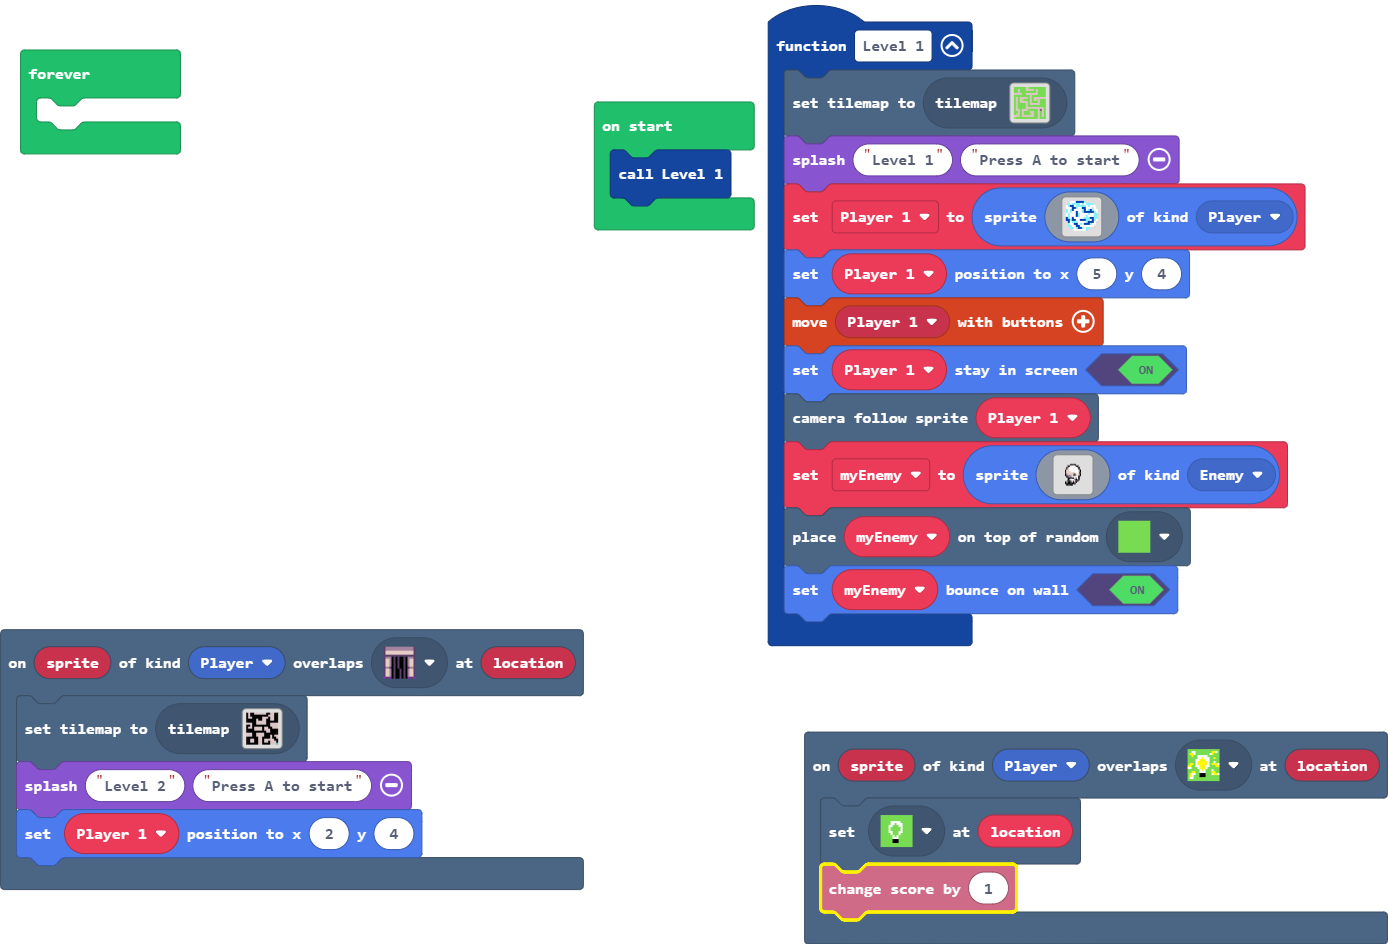
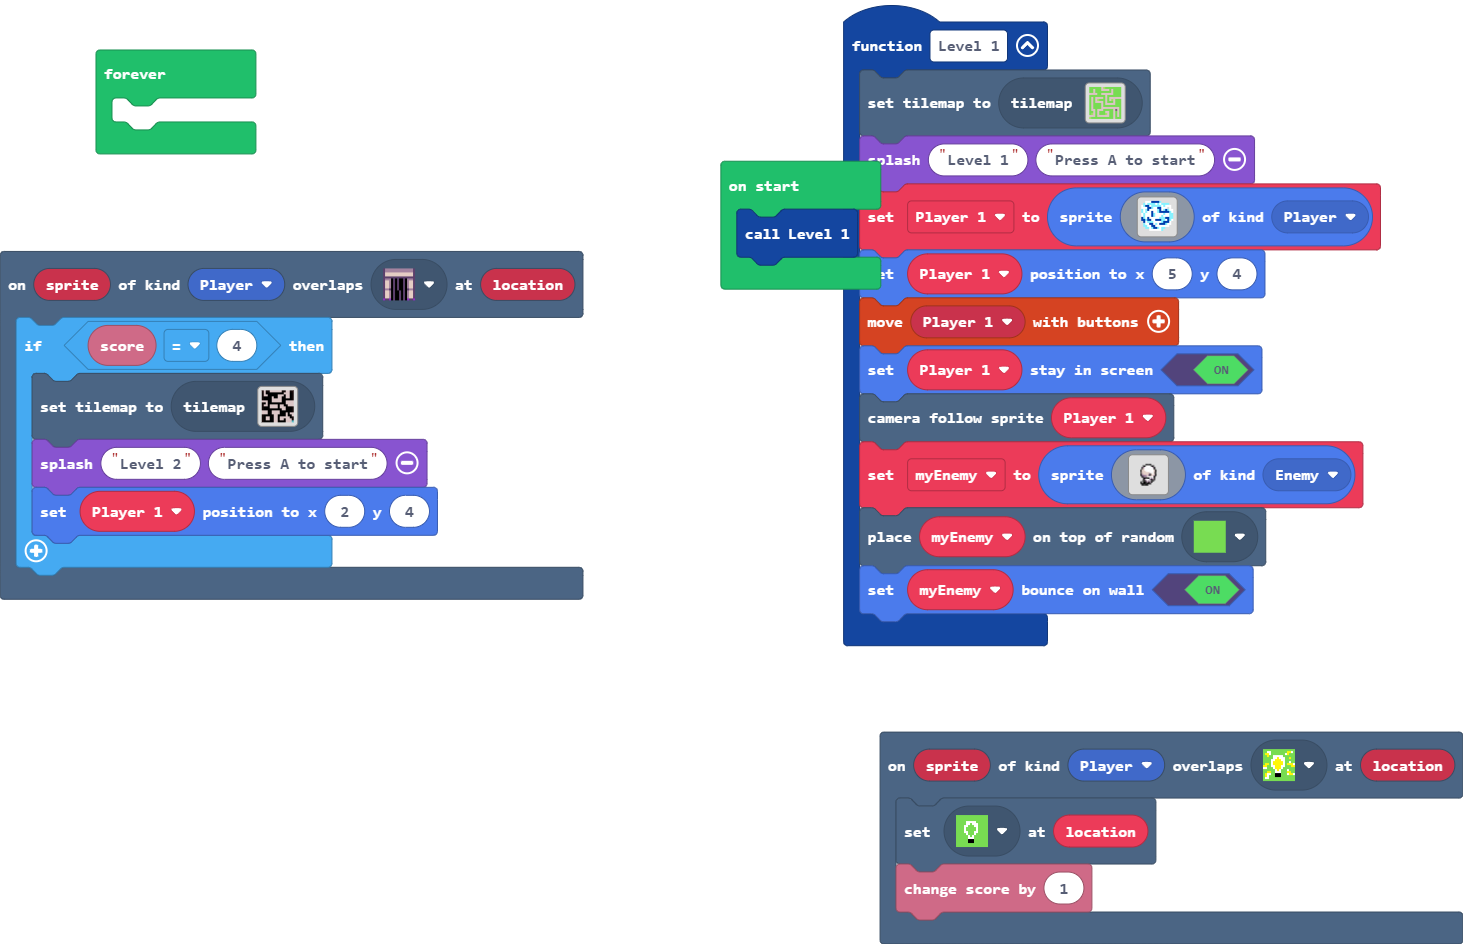
Update main.blocks, main.ts, tilemap.g.jres, tilemap.g.ts

diff --git a/tilemap.g.ts b/tilemap.g.ts
@@ -168,7 +168,7 @@ namespace myTiles {
 . . . . . . 2 2 . . . . 2 2 2 . 
 `, [myTiles.transparency16,sprites.builtin.forestTiles10,sprites.builtin.forestTiles5,sprites.builtin.forestTiles13,sprites.builtin.forestTiles7,sprites.builtin.forestTiles6,sprites.builtin.forestTiles11,sprites.builtin.forestTiles14,sprites.builtin.forestTiles9,sprites.dungeon.floorLight0,sprites.dungeon.collectibleInsignia], TileScale.Sixteen);
             case "level2":
[1 lines of base64/hex data omitted]
+            case "level2":return tiles.createTilemap(hex`1000100003030303030301070303030303030303030301030303010202010302030303030303020303030303030303020303030301020201030301010101010203030303030303030303030301030303030303030301030102020203020301010201010103020301070303030203010702030303030203010101010302030303010303030302030303030103010101010203030303020303030301030303030303030303030103030303010102040202020201030301010301010103030303030105010303030203010303030101030301030103030702030203030307010303010301030102020302020202010103030103010307030303030303030303030301030303`, img`
 . . . . . . 2 . . . . . . . . . 
 . . 2 . . . 2 2 2 2 . 2 . . . . 
 . . 2 . . . . . . . . 2 . . . . 
@@ -185,7 +185,7 @@ namespace myTiles {
 . . 2 . 2 . . . . 2 . . 2 . 2 . 
 2 2 2 . 2 2 2 2 2 2 . . 2 . 2 . 
 . . . . . . . . . . . . 2 . . . 
-`, [myTiles.transparency16,sprites.dungeon.floorLight0,sprites.dungeon.floorLight5,sprites.skillmap.islandTile4,sprites.dungeon.floorLight4,sprites.dungeon.doorClosedNorth,myTiles.tile5,sprites.castle.tileGrass2,sprites.castle.tileGrass1,sprites.castle.tileGrass3,sprites.castle.tilePath7,sprites.castle.tilePath4,sprites.castle.tilePath1,sprites.castle.tilePath2,sprites.castle.tilePath3,sprites.castle.tilePath6,sprites.castle.tilePath8,sprites.castle.tilePath5,sprites.castle.tileDarkGrass1,sprites.castle.tileDarkGrass2,sprites.castle.tileDarkGrass3], TileScale.Sixteen);
+`, [myTiles.transparency16,sprites.dungeon.floorLight0,sprites.dungeon.floorLight5,sprites.skillmap.islandTile4,sprites.dungeon.floorLight4,sprites.dungeon.doorClosedNorth,myTiles.tile4,myTiles.tile5], TileScale.Sixteen);
         }
         return null;
     })

diff --git a/main.ts b/main.ts
@@ -1,7 +1,9 @@
 scene.onOverlapTile(SpriteKind.Player, sprites.dungeon.doorClosedNorth, function (sprite, location) {
-    tiles.setCurrentTilemap(tilemap`level0`)
-    game.splash("Level 2", "Press A to start")
-    Player_1.setPosition(2, 4)
+    if (info.score() == 4) {
+        tiles.setCurrentTilemap(tilemap`level0`)
+        game.splash("Level 2", "Press A to start")
+        Player_1.setPosition(2, 4)
+    }
 })
 function Level_1 () {
     tiles.setCurrentTilemap(tilemap`level2`)
